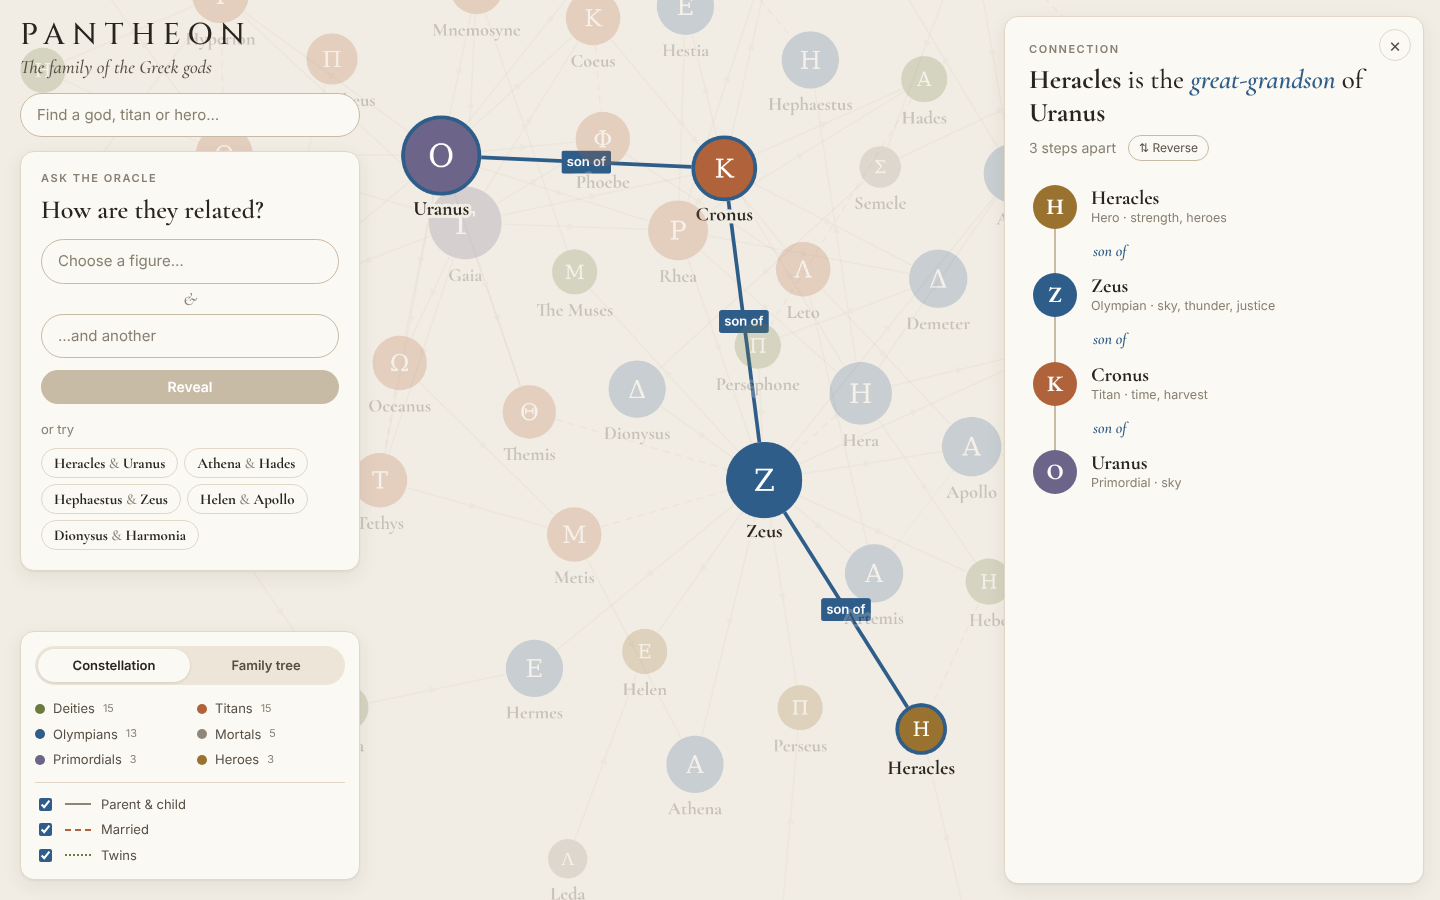
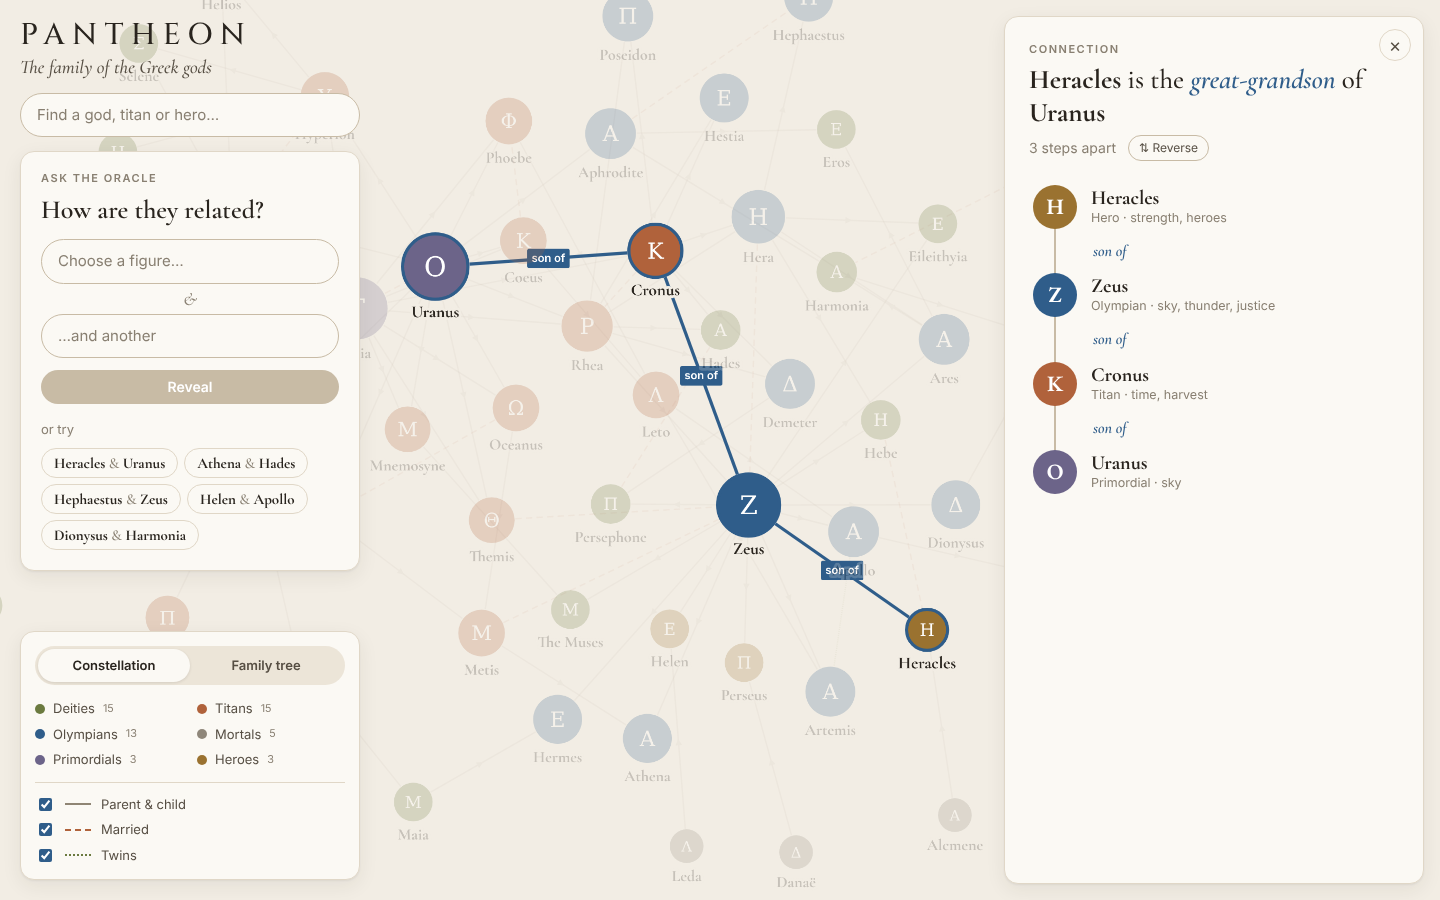
Keep the constellation readable around busy figures (#4)
- After the force layout, a separation pass pushes apart any medallions
  and names that overlap; couples with many children (Gaia and Uranus,
  Cronus and Rhea) were drawn on top of each other
- Relatives' roles (father, wife, daughter...) are now small tags under
  their names instead of captions on the edges, which collided around
  hubs; room for the tag is reserved by the separation pass and the tags
  scale with the zoom
- Edge captions remain only along a path between two figures
- e2e tests for layout overlaps and role tags; refreshed screenshots

diff --git a/frontend/src/components/GraphCanvas.svelte b/frontend/src/components/GraphCanvas.svelte
@@ -7,6 +7,7 @@
   import type { Pantheon, Path } from '../lib/graph';
   import { describeStep, roleLabel } from '../lib/kinship';
   import { withSeed } from '../lib/random';
+  import { type Box, separate } from '../lib/separate';
   import type { AppState, Layout } from '../lib/state.svelte';
   import type { Insets } from '../lib/types';
   import { kindStyle, medallionSvg, RELATIONS, RELATION_FALLBACK } from '../lib/theme';
@@ -27,10 +28,51 @@
   const LABEL_FONT = '"Cormorant Garamond Variable", Georgia, serif';
   const UI_FONT = '"Inter Variable", system-ui, sans-serif';
   const reduceMotion = window.matchMedia('(prefers-reduced-motion: reduce)').matches;
-  // Beyond this many relatives the role captions would cover each other
-  const MAX_PINNED_CAPTIONS = 9;
+  // Room reserved under each name for the relative's role while a node is selected
+  const ROLE_ROOM = 24;
 
   let container: HTMLDivElement;
+
+  interface RoleTag {
+    id: string;
+    text: string;
+    x: number;
+    y: number;
+    size: number;
+  }
+
+  let roleTexts = $state.raw(new Map<string, string>());
+  let roleTags = $state.raw<RoleTag[]>([]);
+  let roleFrame = 0;
+
+  /** Place the role tags under their nodes' names, in screen coordinates. */
+  function placeRoles() {
+    roleFrame = 0;
+    const core = cy;
+    // Hidden together with the names when zoomed too far out to read them
+    if (!core || roleTexts.size === 0 || core.zoom() * 15 < 8) {
+      roleTags = [];
+      return;
+    }
+    const zoom = core.zoom();
+    // Scale with the names on the canvas so the tag fits the room reserved for it
+    const size = Math.min(Math.max(13 * zoom, 9), 13);
+    roleTags = [...roleTexts].map(([id, text]) => {
+      const node = core.$id(id);
+      const { x, y } = node.renderedPosition();
+      // below the medallion and the name drawn under it
+      return { id, text, x, y: y + node.renderedHeight() / 2 + zoom * 25, size };
+    });
+  }
+
+  function scheduleRoles() {
+    if (!roleFrame) roleFrame = requestAnimationFrame(placeRoles);
+  }
+
+  $effect(() => {
+    void roleTexts;
+    scheduleRoles();
+  });
   let cy = $state.raw<Core | null>(null);
   const layouts = new Map<Layout, Record<string, Point>>();
 
@@ -169,14 +211,29 @@
           nodeDimensionsIncludeLabels: true,
           packComponents: true,
           nodeRepulsion: () => 16000,
-          idealEdgeLength: (edge: EdgeSingular) => (edge.data('kind') === 'parent' ? 95 : 70),
+          idealEdgeLength: (edge: EdgeSingular) => (edge.data('kind') === 'parent' ? 100 : 110),
           edgeElasticity: () => 0.35,
           gravity: 0.3,
           numIter: 4000,
         } as cytoscape.LayoutOptions)
         .run(),
     );
-    return Object.fromEntries(core.nodes().map((node) => [node.id(), { ...node.position() }]));
+    // Couples with many children end up on top of each other: push every
+    // medallion and its name clear of its neighbours
+    const boxes: Box[] = core.nodes().map((node) => {
+      const box = node.boundingBox({ includeLabels: true });
+      // Extend each box downwards so a role tag under the name never touches a neighbour
+      return { id: node.id(), x: (box.x1 + box.x2) / 2, y: (box.y1 + box.y2 + ROLE_ROOM) / 2, width: box.w, height: box.h + ROLE_ROOM };
+    });
+    const separated = separate(boxes, 10);
+    return Object.fromEntries(
+      core.nodes().map((node) => {
+        const box = boxes.find((candidate) => candidate.id === node.id())!;
+        const moved = separated.get(node.id())!;
+        const { x, y } = node.position();
+        return [node.id(), { x: x + moved.x - box.x, y: y + moved.y - box.y }];
+      }),
+    );
   }
 
   function positionsFor(core: Core, layout: Layout): Record<string, Point> {
@@ -220,9 +277,10 @@
   function highlight(core: Core, animate = true) {
     const selection = app.selection;
     core.batch(() => {
-      core.elements().removeClass('dim focus onpath captioned hover-caption');
+      core.elements().removeClass('dim focus onpath captioned');
       core.edges().data('caption', '');
     });
+    roleTexts = new Map();
 
     let focus = core.elements().not('.hidden');
     let anchor: cytoscape.Collection | undefined;
@@ -234,13 +292,14 @@
       core.batch(() => {
         core.elements().not(focus).addClass('dim');
         node.addClass('focus');
-        const pin = focus.edges().length <= MAX_PINNED_CAPTIONS;
+        // Each relative's role is shown under its name by the HTML overlay
+        const roles = new Map<string, string[]>();
         focus.edges().forEach((edge) => {
           const other = edge.source().id() === selection.id ? edge.target().id() : edge.source().id();
           const data = pantheon.edges.find((candidate) => candidate.id === edge.id())!;
-          edge.data('caption', roleLabel(data, pantheon.node(other)));
-          if (pin) edge.addClass('captioned');
+          roles.set(other, [...(roles.get(other) ?? []), roleLabel(data, pantheon.node(other))]);
         });
+        roleTexts = new Map([...roles].map(([id, words]) => [id, [...new Set(words)].join(' · ')]));
       });
     } else if (selection?.kind === 'path' && path) {
       const ids = new Set([...path.nodes.map((node) => node.id), ...path.edges.map((edge) => edge.id)]);
@@ -321,24 +380,20 @@
       });
       core.on('mouseover', 'node', (event) => {
         event.target.addClass('hover');
-        event.target.connectedEdges('[caption != ""]').addClass('captioned hover-caption');
         container.style.cursor = 'pointer';
       });
       core.on('mouseout', 'node', (event) => {
         event.target.removeClass('hover');
-        core.edges('.hover-caption').not('.onpath').removeClass('captioned hover-caption');
         container.style.cursor = '';
-        if (app.selection?.kind === 'node') {
-          const hood = core.$id(app.selection.id).connectedEdges();
-          if (hood.length <= MAX_PINNED_CAPTIONS) hood.addClass('captioned');
-        }
       });
+      core.on('viewport position', scheduleRoles);
       cy = core;
     });
 
     return () => {
       disposed = true;
       clearTimeout(cameraTimer);
+      cancelAnimationFrame(roleFrame);
       cy?.destroy();
     };
   });
@@ -384,10 +439,36 @@
 </script>
 
 <div class="canvas" bind:this={container} role="img" aria-label="Map of the Greek pantheon. Use the search or the cards to explore it."></div>
+<div class="roles" aria-hidden="true">
+  {#each roleTags as tag (tag.id)}
+    <span style:transform="translate({tag.x}px, {tag.y}px) translate(-50%, 0)" style:font-size="{tag.size}px">{tag.text}</span>
+  {/each}
+</div>
 
 <style>
-  .canvas {
+  .canvas,
+  .roles {
     position: absolute;
     inset: 0;
+  }
+
+  .roles {
+    overflow: hidden;
+    pointer-events: none;
+  }
+
+  .roles span {
+    position: absolute;
+    top: 0;
+    left: 0;
+    padding: 0 0.6em;
+    border-radius: 999px;
+    background: var(--sky-soft);
+    color: var(--sky);
+    font-family: var(--font-serif);
+    font-style: italic;
+    font-weight: 600;
+    line-height: 1.35;
+    white-space: nowrap;
   }
 </style>

diff --git a/frontend/src/lib/separate.ts b/frontend/src/lib/separate.ts
@@ -1,0 +1,50 @@
+/**
+ * Push apart boxes that overlap, keeping everything else where it is.
+ *
+ * Force-directed layouts pull tightly related nodes (a couple with many
+ * children) on top of each other; this pass guarantees that medallions and
+ * their names stay readable. Boxes are moved along the axis of least overlap,
+ * half each, until no pair overlaps or the iteration budget runs out.
+ */
+export interface Box {
+  id: string;
+  /** Centre of the box. */
+  x: number;
+  y: number;
+  width: number;
+  height: number;
+}
+
+// A little extra per push so boxes clear each other instead of creeping into contact
+const NUDGE = 0.5;
+
+export function separate(boxes: readonly Box[], gap = 8, maxRounds = 200): Map<string, { x: number; y: number }> {
+  const items = boxes.map((box) => ({ ...box }));
+  for (let round = 0; round < maxRounds; round += 1) {
+    let moved = false;
+    for (let i = 0; i < items.length; i += 1) {
+      for (let j = i + 1; j < items.length; j += 1) {
+        const a = items[i]!;
+        const b = items[j]!;
+        const dx = b.x - a.x;
+        const dy = b.y - a.y;
+        const overlapX = (a.width + b.width) / 2 + gap - Math.abs(dx);
+        const overlapY = (a.height + b.height) / 2 + gap - Math.abs(dy);
+        if (overlapX <= 0 || overlapY <= 0) continue;
+        moved = true;
+        // Resolve along the cheaper axis; ties (identical centres) go sideways
+        if (overlapX < overlapY) {
+          const shift = (overlapX / 2 + NUDGE) * (dx < 0 ? -1 : 1);
+          a.x -= shift;
+          b.x += shift;
+        } else {
+          const shift = (overlapY / 2 + NUDGE) * (dy < 0 ? -1 : 1);
+          a.y -= shift;
+          b.y += shift;
+        }
+      }
+    }
+    if (!moved) break;
+  }
+  return new Map(items.map(({ id, x, y }) => [id, { x, y }]));
+}

diff --git a/frontend/src/lib/separate.test.ts b/frontend/src/lib/separate.test.ts
@@ -1,0 +1,49 @@
+import { expect, it } from 'vitest';
+
+import { type Box, separate } from './separate';
+
+const overlaps = (boxes: Box[], positions: Map<string, { x: number; y: number }>, gap: number) =>
+  boxes.some((a, i) =>
+    boxes.slice(i + 1).some((b) => {
+      const pa = positions.get(a.id)!;
+      const pb = positions.get(b.id)!;
+      return (
+        Math.abs(pa.x - pb.x) < (a.width + b.width) / 2 + gap - 1e-6 &&
+        Math.abs(pa.y - pb.y) < (a.height + b.height) / 2 + gap - 1e-6
+      );
+    }),
+  );
+
+it('separates overlapping boxes and leaves distant ones alone', () => {
+  const boxes: Box[] = [
+    { id: 'cronus', x: 0, y: 0, width: 60, height: 70 },
+    { id: 'rhea', x: 20, y: 10, width: 60, height: 70 },
+    { id: 'far', x: 500, y: 500, width: 60, height: 70 },
+  ];
+  const positions = separate(boxes, 8);
+
+  expect(overlaps(boxes, positions, 8)).toBe(false);
+  expect(positions.get('far')).toEqual({ x: 500, y: 500 });
+  // Moved symmetrically along the cheaper axis
+  expect(positions.get('cronus')!.x).toBeLessThan(0);
+  expect(positions.get('rhea')!.x).toBeGreaterThan(20);
+});
+
+it('untangles a crowded cluster', () => {
+  const boxes: Box[] = Array.from({ length: 30 }, (_, i) => ({
+    id: String(i),
+    x: (i % 5) * 10,
+    y: Math.floor(i / 5) * 10,
+    width: 50,
+    height: 60,
+  }));
+  expect(overlaps(boxes, separate(boxes, 6), 6)).toBe(false);
+});
+
+it('pulls apart boxes sharing the same centre', () => {
+  const boxes: Box[] = [
+    { id: 'a', x: 0, y: 0, width: 40, height: 40 },
+    { id: 'b', x: 0, y: 0, width: 40, height: 40 },
+  ];
+  expect(overlaps(boxes, separate(boxes, 4), 4)).toBe(false);
+});

diff --git a/frontend/e2e/pantheon.spec.ts b/frontend/e2e/pantheon.spec.ts
@@ -113,3 +113,34 @@ test('one selection moves the camera once', async ({ page }) => {
   await page.waitForTimeout(800);
   expect(await camera.moves()).toBe(3);
 });
+
+test('the constellation keeps medallions and names apart', async ({ page }) => {
+  await page.goto('/');
+  await page.waitForFunction(() => document.querySelector('.canvas canvas'));
+  await page.waitForTimeout(400);
+  const collisions = await page.evaluate(() => {
+    type Box = { x1: number; x2: number; y1: number; y2: number };
+    type Node = { id: () => string; boundingBox: (options: object) => Box };
+    const holder = document.querySelector('.canvas') as unknown as { _cyreg: { cy: { nodes: () => Node[] } } };
+    const boxes = [...holder._cyreg.cy.nodes()].map((node) => ({ id: node.id(), box: node.boundingBox({ includeLabels: true }) }));
+    const hits: string[] = [];
+    boxes.forEach((a, i) =>
+      boxes.slice(i + 1).forEach((b) => {
+        if (a.box.x1 < b.box.x2 && b.box.x1 < a.box.x2 && a.box.y1 < b.box.y2 && b.box.y1 < a.box.y2) hits.push(`${a.id}/${b.id}`);
+      }),
+    );
+    return hits;
+  });
+  expect(collisions).toEqual([]);
+});
+
+test('relatives are tagged with their role', async ({ page }) => {
+  await page.goto('/?node=cronus');
+  const roles = page.locator('.roles span');
+  await expect(roles).toHaveCount(9); // 2 parents, 1 consort, 6 children
+  await expect(roles.filter({ hasText: 'wife' })).toHaveCount(1);
+  await expect(roles.filter({ hasText: 'daughter' })).toHaveCount(3);
+
+  await page.keyboard.press('Escape');
+  await expect(roles).toHaveCount(0);
+});
